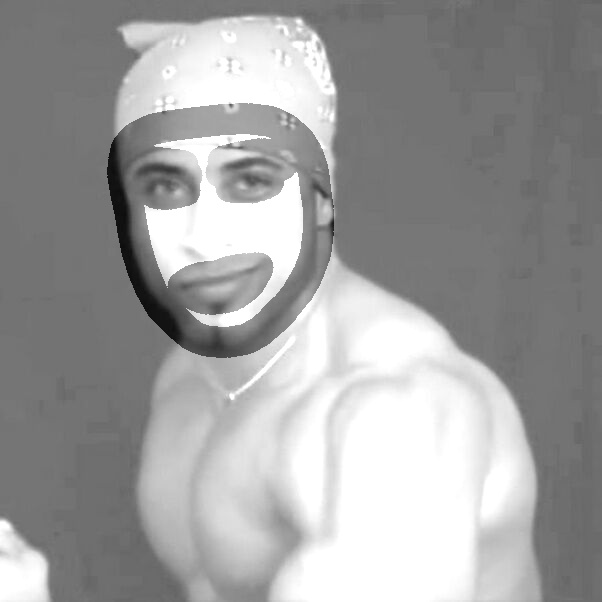
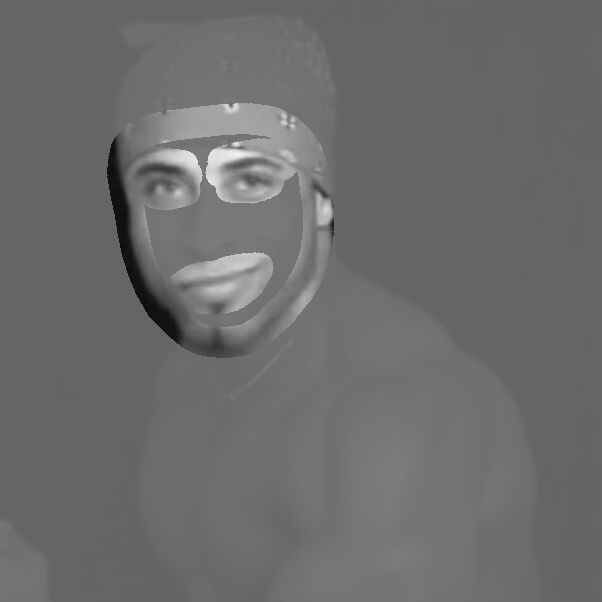
there is obviously something i'm missing so this only half works.

diff --git a/face_full_processing.py b/face_full_processing.py
@@ -18,8 +18,8 @@ blur_radius = 1 # must be an odd number
 face_blur_radius = 1
 lower_thresh = 0
 upper_thresh = 31 # after extensive research, I am fairly certian that you only need to change this value...
-alpha = 1 # Contrast control (1.0-3.0)
-beta = 0 # Brightness control (0-100)
+alpha = .1 # Simple contrast control
+beta = 100    # Simple brightness control
 #TODO: Figure out why this breaks with a smaller number
 splitDistance = 5 # number of pixels apart when points are broken into seperate segments
 areaCut = 5
@@ -92,7 +92,13 @@ else:
     facemap = facemesh.get_facemesh(filename)
 
 gray = cv2.cvtColor(input_img,cv2.COLOR_BGR2GRAY)
-blur =cv2.addWeighted(gray,alpha,np.zeros(gray.shape, gray.dtype),0,beta)
+blur = np.zeros(gray.shape, gray.dtype)
+
+for y in range(gray.shape[0]):
+    for x in range(gray.shape[1]):
+
+        blur[y,x] = np.clip(alpha*gray[y,x] + beta, 0, 255) #old code didn't play nice with color
+
 
 
 blur = cv2.GaussianBlur(blur, (blur_radius, blur_radius), 0)
